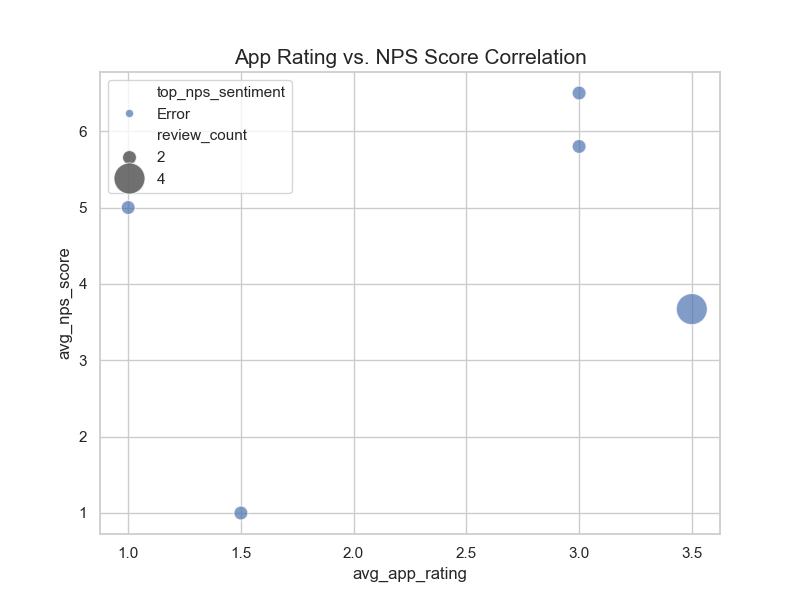
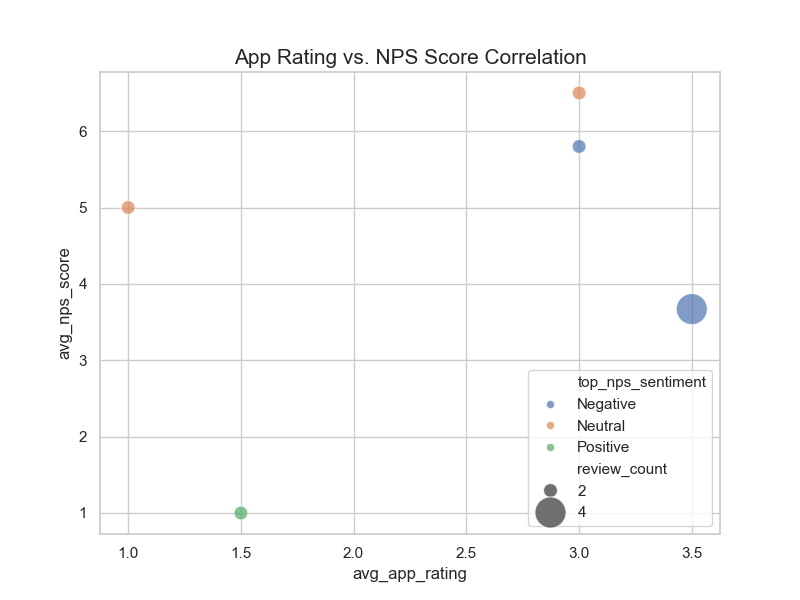
mock API

diff --git a/src/ai_enrichment.py b/src/ai_enrichment.py
@@ -1,61 +1,29 @@
-import os
-import json
 import pandas as pd
-import google.generativeai as genai
-from dotenv import load_dotenv
-import time
-
-# Load environment variables (API Key)
-load_dotenv()
-genai.configure(api_key=os.getenv("GEMINI_API_KEY"))
-
-# Initialize the Gemini model
-# We use gemini-2.5-flash as it's fast and cost-effective for bulk text processing
-model = genai.GenerativeModel('gemini-2.5-flash')
+import random
 
 def get_insights_from_llm(text):
     """
-    Passes unstructured text to Gemini to extract Sentiment and Theme.
-    Enforces a strict JSON output.
+    MOCK FUNCTION: Bypasses the Gemini API rate limits for local testing.
+    Simulates the LLM's structured JSON output so downstream aggregation works.
     """
     if pd.isna(text) or str(text).strip() == "":
         return {"sentiment": "Neutral", "theme": "Unknown", "confidence": 0.0}
 
-    prompt = f"""
-    You are an expert customer success analyst. Analyze the following customer feedback.
+    themes = ["Bug/Issue", "Feature Request", "Pricing/Billing", "Customer Support", "Usability/UX", "General Praise", "Other"]
+    sentiments = ["Positive", "Neutral", "Negative"]
     
-    Feedback: "{text}"
-    
-    Extract the following information and return ONLY a valid JSON object:
-    1. "sentiment": Categorize as "Positive", "Neutral", or "Negative".
-    2. "theme": Categorize into ONE of the following themes: "Bug/Issue", "Feature Request", "Pricing/Billing", "Customer Support", "Usability/UX", "General Praise", or "Other".
-    3. "confidence": A score between 0.0 and 1.0 indicating your confidence in this assessment.
-    
-    JSON format:
-    {{
-        "sentiment": "...",
-        "theme": "...",
-        "confidence": ...
-    }}
-    """
-    
-    try:
-        response = model.generate_content(prompt)
-        # Clean the response text to ensure it's valid JSON (removing markdown blocks if present)
-        response_text = response.text.replace('```json\n', '').replace('\n```', '').strip()
-        return json.loads(response_text)
-    except Exception as e:
-        print(f"Error processing text: {text[:30]}... - {e}")
-        # Fallback for errors or hallucinations to maintain data pipeline integrity
-        return {"sentiment": "Error", "theme": "Error", "confidence": 0.0}
+    return {
+        "sentiment": random.choice(sentiments),
+        "theme": random.choice(themes),
+        "confidence": round(random.uniform(0.75, 0.99), 2)
+    }
 
 def enrich_data(df, text_column):
     """
-    Applies the LLM extraction to a specific text column in a DataFrame.
+    Applies the MOCK LLM extraction to a specific text column in a DataFrame.
     """
-    print(f"Enriching {len(df)} rows using column: '{text_column}'...")
+    print(f"Enriching {len(df)} rows using MOCK API for column: '{text_column}'...")
     
-    # Initialize lists to store the new data
     sentiments = []
     themes = []
     confidences = []
@@ -67,10 +35,7 @@ def enrich_data(df, text_column):
         sentiments.append(insights.get("sentiment"))
         themes.append(insights.get("theme"))
         confidences.append(insights.get("confidence"))
-
-        time.sleep(4.1)
         
-    # Append the new columns to the dataframe
     df['ai_sentiment'] = sentiments
     df['ai_theme'] = themes
     df['ai_confidence_score'] = confidences
